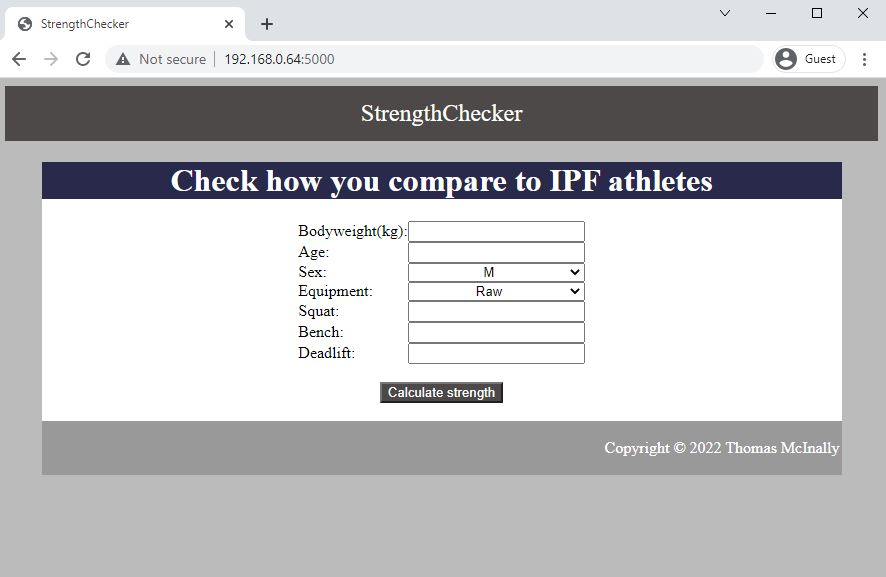
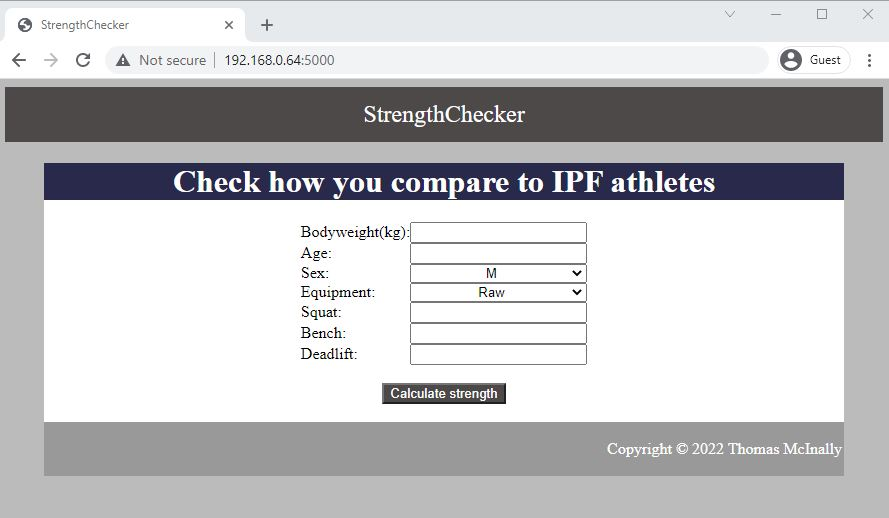
update aesthetics

diff --git a/templates/results.html b/templates/results.html
@@ -2,17 +2,17 @@
 {% extends 'base.html' %}
 
 {% block content %}
-    <h1>Here are your results</h1>
+    <h1>Your results</h1>
     <p>Sex category: {{results['sex_category']}}</p>
     <p>Age category: {{results['age_category']}}</p>
     <p>Weight category: {{results['weight_category']}}</p>
     <p>Equipment category: {{results['equipment_category']}}</p>
     <br>
-    <p>Your Squat is stronger than {{results['squat_result']}} of people!</p>
-    <p>Your Bench is stronger than {{results['bench_result']}} of people!</p>
-    <p>Your Deadlift is stronger than {{results['deadlift_result']}} of people!</p>
+    <p>Your Squat is stronger than <strong>{{results['squat_result']}}</strong> of people in your category!</p>
+    <p>Your Bench is stronger than <strong>{{results['bench_result']}}</strong> of people in your category!</p>
+    <p>Your Deadlift is stronger than <strong>{{results['deadlift_result']}}</strong> of people in your category!</p>
     <br>
-    <p>Your Total is stronger than {{results['total_result']}} of people!</p>
+    <p>Your Total is stronger than <strong>{{results['total_result']}}</strong> of people in your category!</p>
 {% endblock %}
 
 

diff --git a/templates/results_unavailable.html b/templates/results_unavailable.html
@@ -1,5 +1,8 @@
 {% extends 'base.html' %}
 
 {% block content %}
-    <p>Results unavailable. Go to homepage and enter your data to get results</p>
+<center>
+    <p>ERROR: Results unavailable.
+    <br /> Go to homepage and enter your data to get results</p>
+</center>
 {% endblock %}

diff --git a/templates/base.html b/templates/base.html
@@ -12,7 +12,11 @@
     </ul>
     
     <div id="container">
-        {% block content %} {% endblock %}
+        {% block content %} 
+        {% endblock %}
+        <div id="footer">
+          <p>Copyright &copy; 2022 Thomas McInally</p>
+        </div>
     </div>
 
 

diff --git a/templates/index.html b/templates/index.html
@@ -52,11 +52,6 @@
   
   
 </div>
-</center>
-
-<div id="footer">
-  <p>Copyright &copy; 2022 Thomas McInally</p>
-</div>
-        
+</center>       
 {% endblock %}
 
